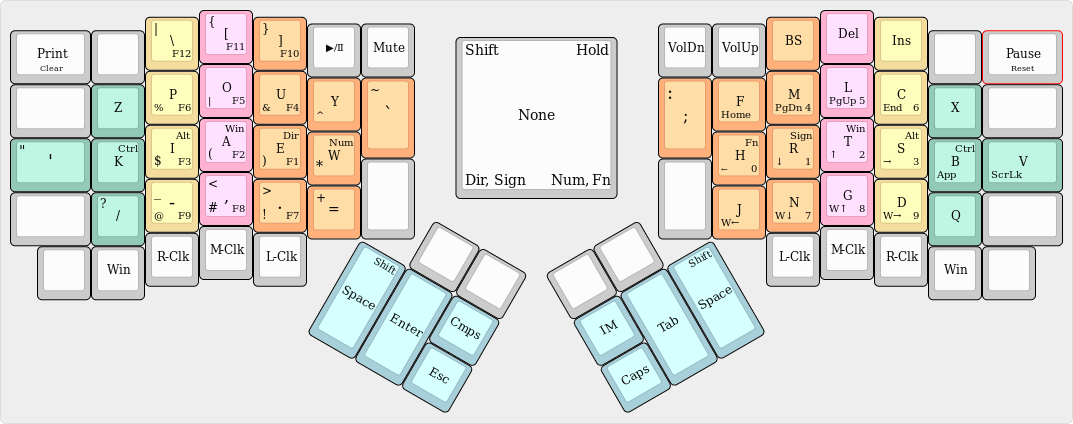
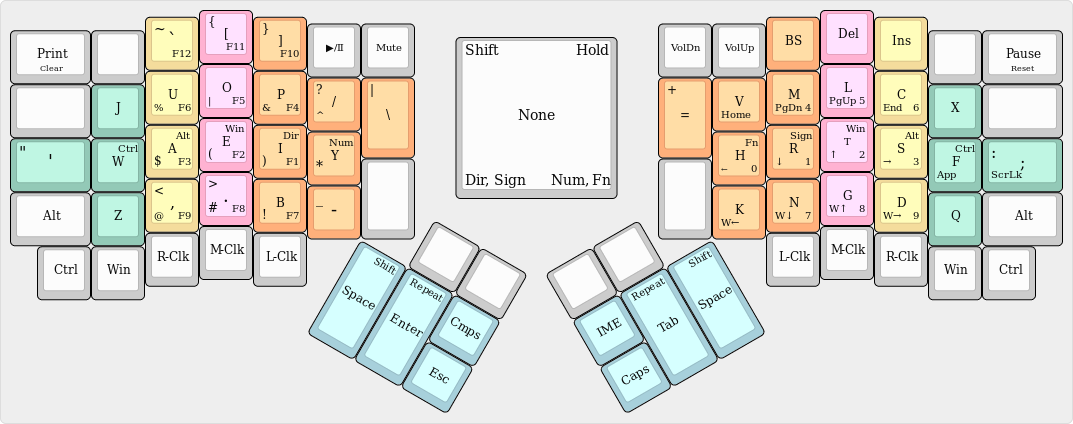
update layout

diff --git a/keyboards/ergodox/keymaps/youhei/keymap.c b/keyboards/ergodox/keymaps/youhei/keymap.c
@@ -3,25 +3,69 @@
 const uint16_t PROGMEM keymaps[][MATRIX_ROWS][MATRIX_COLS] = {
 	[L_BASE] = KEYMAP(
 		// left hand
-		KC_PSCR, KC_NO, KC_BSLS, KC_LBRC, KC_RBRC, KC_MPLY, KC_MUTE,
-		KC_NO, KC_Z, KC_P, KC_O, KC_U, KC_Y, KC_GRV,
-		KC_QUOT, CTL_T(KC_K), ALT_T(KC_I), GUI_T(KC_A), DIR_T(KC_E), NUM_T(KC_W),
-		KC_NO, KC_SLSH, KC_MINS, KC_COMM, KC_DOT, KC_EQL, KC_GRV,
-		KC_NO, KC_LGUI, KC_RCLK, KC_MCLK, KC_LCLK,
+		KC_PSCR, KC_NO, KC_GRV, KC_LBRC, KC_RBRC, KC_MPLY, KC_MUTE,
+		KC_NO, KC_J, KC_U, KC_O, KC_P, KC_SLSH, KC_BSLS,
+		KC_QUOT, LCTL_T(KC_W), LALT_T(KC_A), LGUI_T(KC_E), DIR_T(KC_I), NUM_T(KC_Y),
+		KC_LALT, KC_Z, KC_COMM, KC_DOT, KC_B, KC_MINS, KC_NO,
+		KC_LCTL, KC_LGUI, KC_RCLK, KC_MCLK, KC_LCLK,
 		// thumb
 		KC_NO, KC_NO,
 		KC_CMPS,
-		SFT_T(KC_SPC), KC_ENT, KC_ESC,
+		LSFT_T(KC_SPC), LRPT_T(KC_ENT), KC_ESC,
 		// right hand
 		KC_VOLD, KC_VOLU, KC_BSPC, KC_DEL, KC_INS, KC_NO, KC_PAUS,
-		KC_SCLN, KC_F, KC_M, KC_L, KC_C, KC_X, KC_NO,
-		FN_T(KC_H), SIGN_T(KC_R), GUI_T(KC_T), ALT_T(KC_S), CTL_T(KC_B), KC_V,
-		KC_NO, KC_J, KC_N, KC_G, KC_D, KC_Q, KC_NO,
-		KC_LCLK, KC_MCLK, KC_RCLK, KC_LGUI, KC_NO,
+		KC_EQL, KC_V, KC_M, KC_L, KC_C, KC_X, KC_NO,
+		FN_T(KC_H), SIGN_T(KC_R), RGUI_T(KC_T), ALT_T(KC_S), RCTL_T(KC_F), KC_SCLN,
+		KC_NO, KC_K, KC_N, KC_G, KC_D, KC_Q, KC_LALT,
+		KC_LCLK, KC_MCLK, KC_RCLK, KC_RGUI, KC_RCTL,
 		// thumb
 		KC_NO, KC_NO,
 		KC_TGIM,
-		KC_CAPS, KC_TAB, SFT_T(KC_SPC)
+		KC_CAPS, RRPT_T(KC_TAB), RSFT_T(KC_SPC)
+	),
+	[L_LREPEAT] = KEYMAP(
+		// left hand
+		KC_TRNS, KC_TRNS, KC_TRNS, KC_TRNS, KC_TRNS, KC_TRNS, KC_TRNS,
+		KC_TRNS, KC_TRNS, KC_TRNS, KC_TRNS, KC_TRNS, KC_TRNS, KC_TRNS,
+		KC_TRNS, KC_TRNS, KC_TRNS, KC_TRNS, KC_TRNS, KC_TRNS,
+		KC_TRNS, KC_TRNS, KC_TRNS, KC_TRNS, KC_TRNS, KC_TRNS, KC_TRNS,
+		KC_TRNS, KC_TRNS, KC_TRNS, KC_TRNS, KC_TRNS,
+		// thumb
+		KC_TRNS, KC_TRNS,
+		KC_TRNS,
+		KC_TRNS, KC_TRNS, KC_TRNS,
+		// right hand
+		KC_TRNS, KC_TRNS, KC_TRNS, KC_TRNS, KC_TRNS, KC_TRNS, KC_TRNS,
+		KC_TRNS, KC_TRNS, KC_TRNS, KC_TRNS, KC_TRNS, KC_TRNS, KC_TRNS,
+		KC_H, KC_R, KC_T, KC_S, KC_F, KC_TRNS,
+		KC_TRNS, KC_TRNS, KC_TRNS, KC_TRNS, KC_TRNS, KC_TRNS, KC_TRNS,
+		KC_TRNS, KC_MCLK, KC_TRNS, KC_TRNS, KC_TRNS,
+		// thumb
+		KC_TRNS, KC_TRNS,
+		KC_TRNS,
+		KC_TRNS, KC_TAB, KC_SPC
+	),
+	[L_RREPEAT] = KEYMAP(
+		// left hand
+		KC_TRNS, KC_TRNS, KC_TRNS, KC_TRNS, KC_TRNS, KC_TRNS, KC_TRNS,
+		KC_TRNS, KC_TRNS, KC_TRNS, KC_TRNS, KC_TRNS, KC_TRNS, KC_TRNS,
+		KC_TRNS, KC_W, KC_A, KC_E, KC_I, KC_Y,
+		KC_TRNS, KC_TRNS, KC_TRNS, KC_TRNS, KC_TRNS, KC_TRNS, KC_TRNS,
+		KC_TRNS, KC_TRNS, KC_TRNS, KC_MCLK, KC_TRNS,
+		// thumb
+		KC_TRNS, KC_TRNS,
+		KC_TRNS,
+		KC_SPC, KC_ENT, KC_TRNS,
+		// right hand
+		KC_TRNS, KC_TRNS, KC_TRNS, KC_TRNS, KC_TRNS, KC_TRNS, KC_TRNS,
+		KC_TRNS, KC_TRNS, KC_TRNS, KC_TRNS, KC_TRNS, KC_TRNS, KC_TRNS,
+		KC_TRNS, KC_TRNS, KC_TRNS, KC_TRNS, KC_TRNS, KC_TRNS,
+		KC_TRNS, KC_TRNS, KC_TRNS, KC_TRNS, KC_TRNS, KC_TRNS, KC_TRNS,
+		KC_TRNS, KC_TRNS, KC_TRNS, KC_TRNS, KC_TRNS,
+		// thumb
+		KC_TRNS, KC_TRNS,
+		KC_TRNS,
+		KC_TRNS, KC_TRNS, KC_TRNS
 	),
 	[L_SIGN] = KEYMAP(
 		// left hand

diff --git a/keyboards/ergodox/keymaps/youhei/youhei.h b/keyboards/ergodox/keymaps/youhei/youhei.h
@@ -6,13 +6,17 @@
 
 enum Layer {
 	L_BASE,
+	L_LREPEAT,
+	L_RREPEAT,
 	L_SIGN,
 	L_DIRECTION,
 	L_NUMBER,
 	L_FUNCTION,
 };
+
 /*
 enum Macro {
+	M_NONE,
 };
 
 enum Function {
@@ -23,6 +27,7 @@ enum Action {
 	A_GUI_T_MCLK,
 };
 */
+
 enum Keycode_User {
 	CLEAR = SAFE_RANGE,
 };
@@ -35,6 +40,8 @@ enum Keycode_User {
 #define DIR_T(kc) LT(L_DIRECTION, kc)
 #define NUM_T(kc) LT(L_NUMBER, kc)
 #define FN_T(kc) LT(L_FUNCTION, kc)
+#define LRPT_T(kc) LT(L_LREPEAT, kc)
+#define RRPT_T(kc) LT(L_RREPEAT, kc)
 
 // click (left, middle, right)
 #define KC_LCLK KC_BTN1
@@ -50,11 +57,11 @@ enum Keycode_User {
 // tapping key with special key
 //#define GUI_T_MCLK F(A_GUI_T_MCLK)
 
+/*
 bool is_hold(keyrecord_t *record) {
 	return (record->tap.count <= 0 || record->tap.interrupted);
 }
 
-/*
 const macro_t *tap_macro_hold_mod(keyrecord_t *record, uint8_t mod, const macro_t *macro) {
 	if (record->event.pressed) {
 		if (is_hold(record)) {
@@ -71,7 +78,6 @@ const macro_t *tap_macro_hold_mod(keyrecord_t *record, uint8_t mod, const macro_
 	}
 	return MACRO_NONE;
 };
-
 
 void tap_mousekey(uint8_t mouse) {
 	mousekey_on(mouse);
@@ -95,7 +101,6 @@ void tap_mouse_hold_mod(keyrecord_t *record, uint8_t mod, uint8_t mouse) {
 		}
 	}
 };
-
 
 const macro_t *tap_macro_hold_layer(keyrecord_t *record, uint8_t layer, const macro_t *macro) {
 	if (record->event.pressed) {
